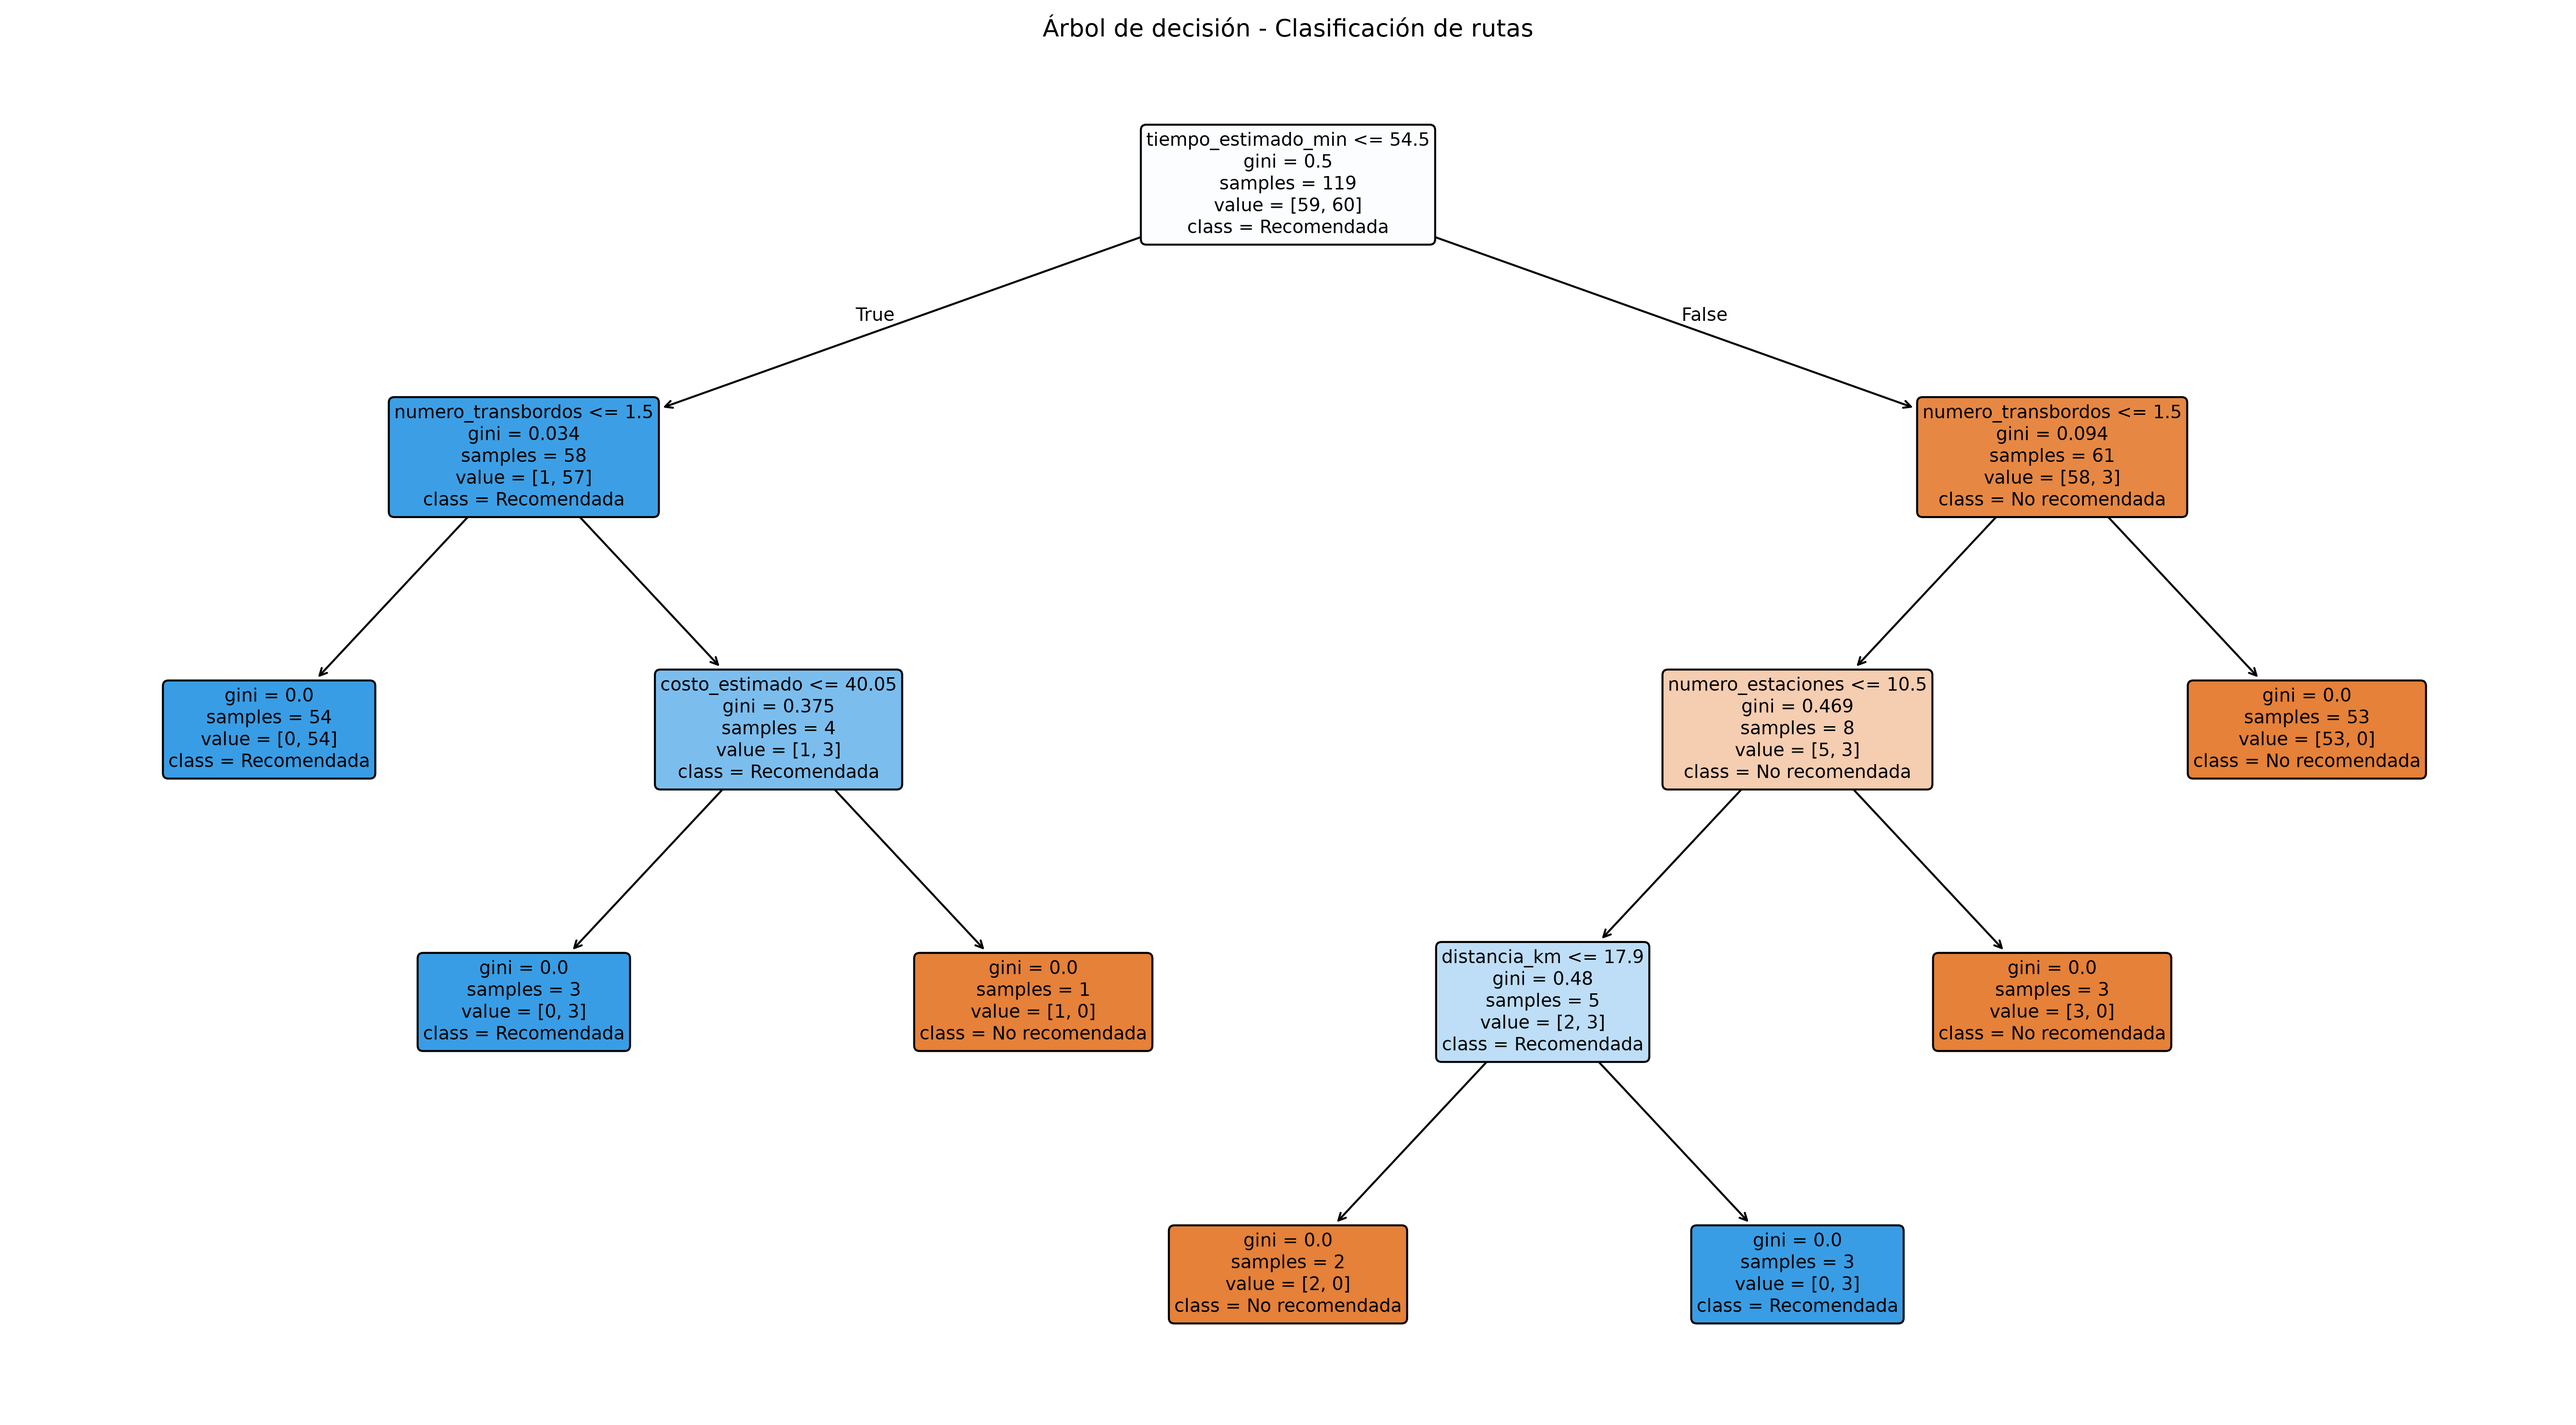
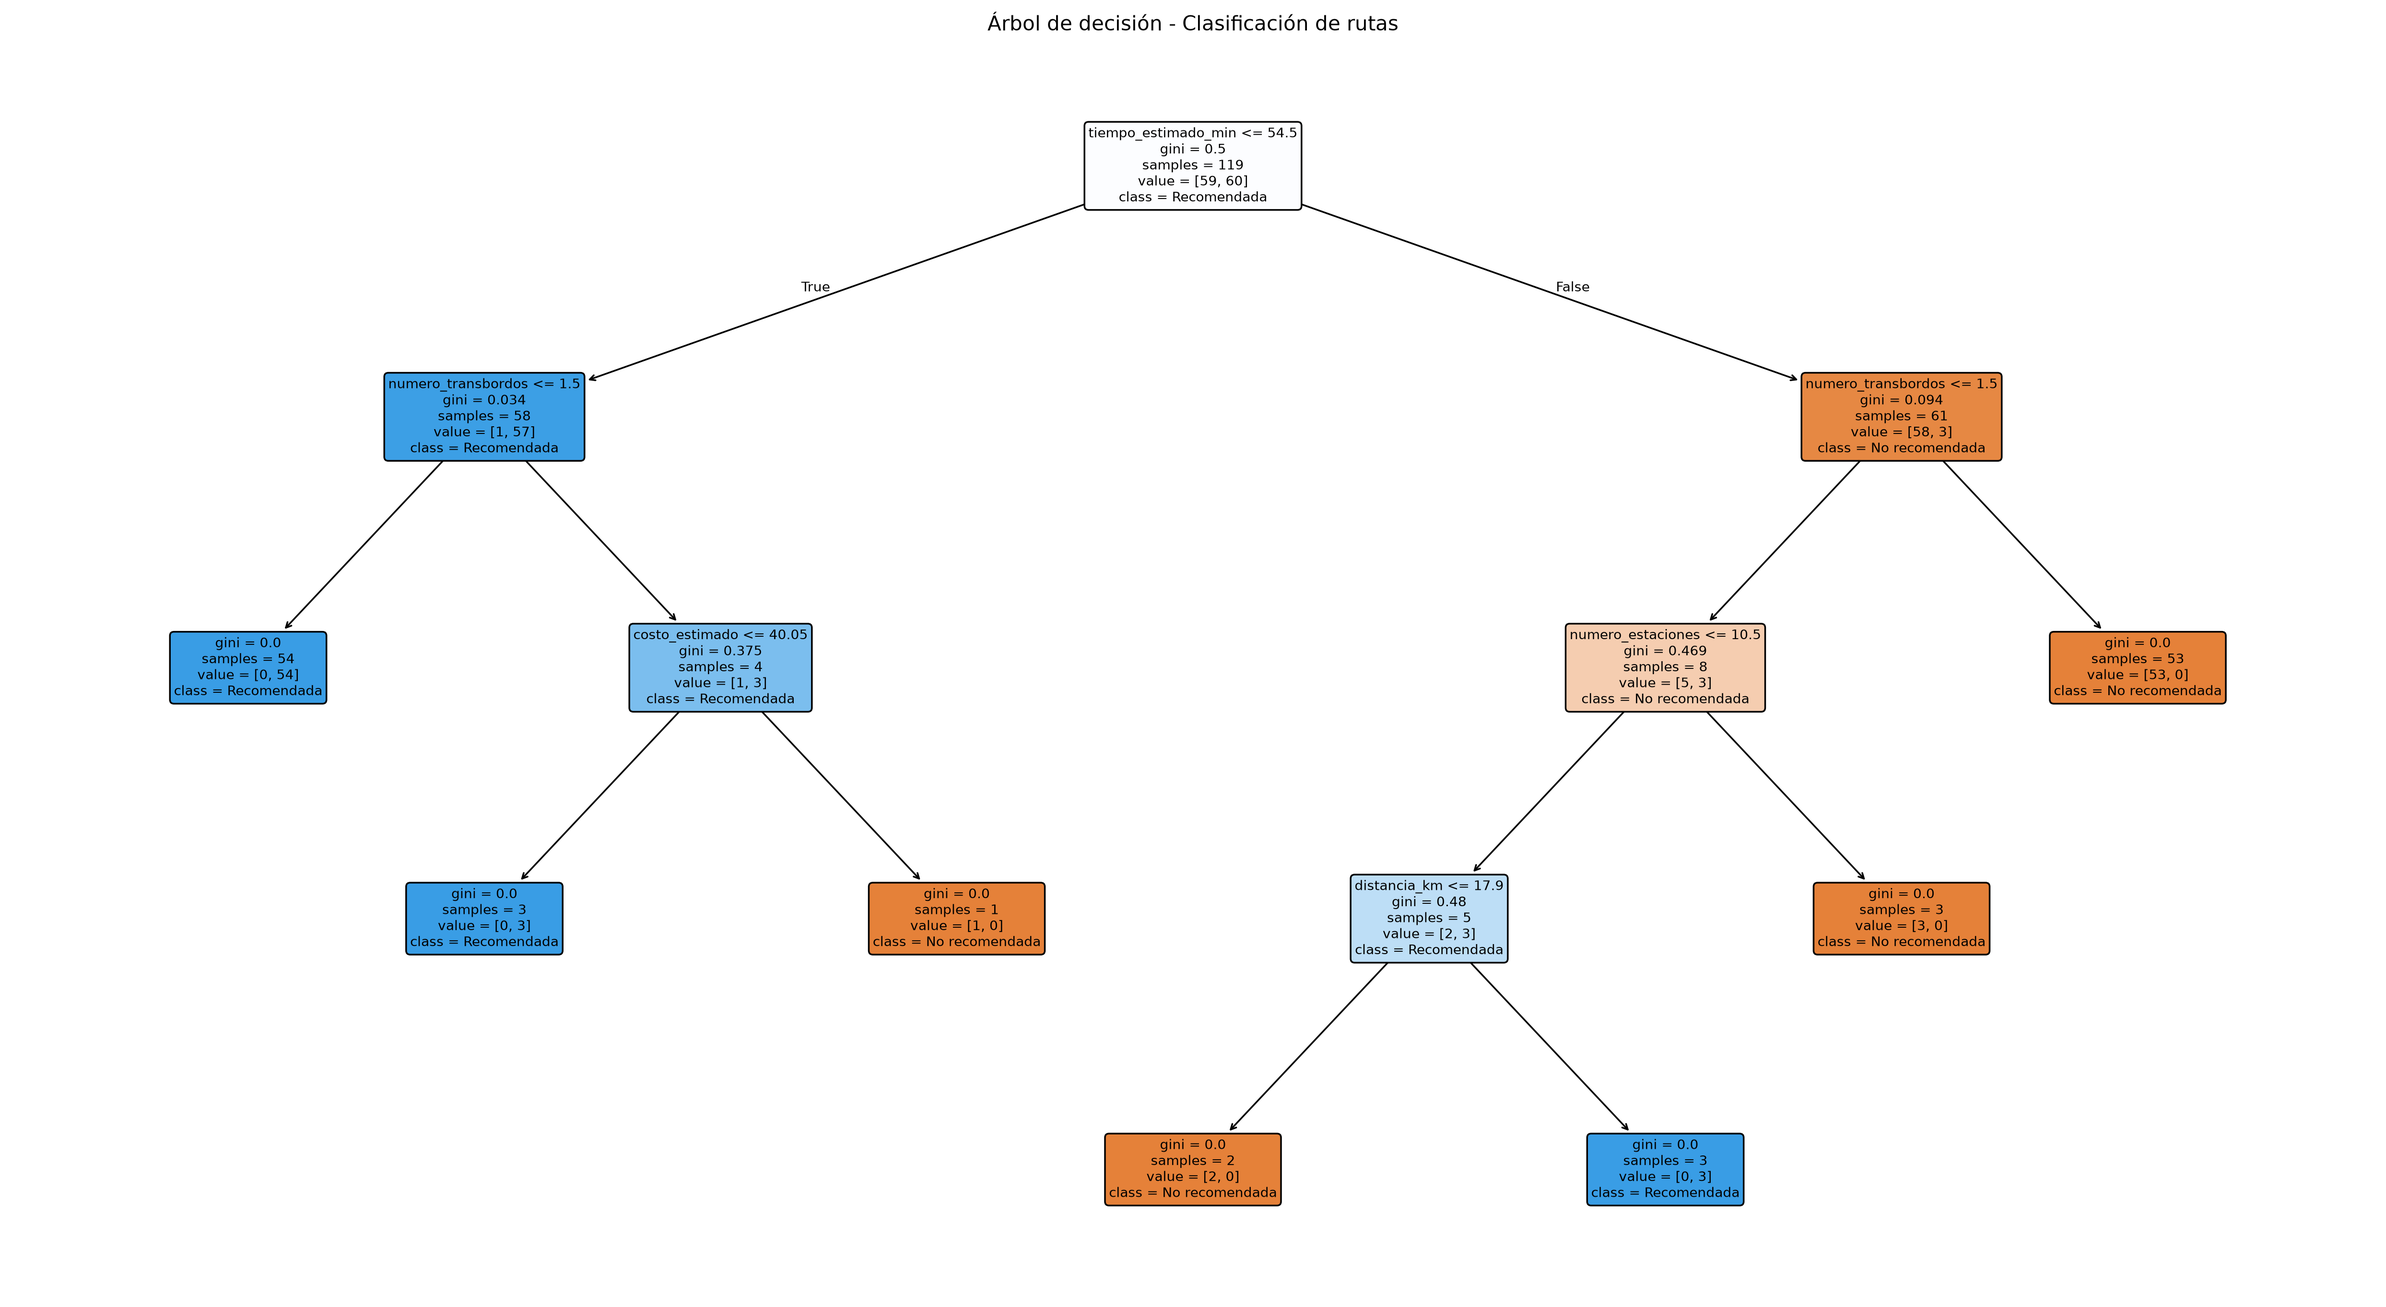
test: agregar pruebas del modelo y visualizaciones

diff --git a/tests/test_modelo.py b/tests/test_modelo.py
@@ -1,0 +1,87 @@
+import unittest
+
+import pandas as pd
+from sklearn.tree import DecisionTreeClassifier
+
+from ml.configuracion import (
+    RUTA_DATOS,
+    COLUMNAS_ENTRADA,
+    COLUMNA_OBJETIVO,
+)
+from ml.entrenar_modelo import cargar_datos
+
+class TestModeloSupervisado(unittest.TestCase):
+
+    @classmethod
+    def setUpClass(cls):
+        cls.datos = cargar_datos()
+
+    def test_dataset_existe(self):
+        self.assertTrue(RUTA_DATOS.is_file())
+
+    def test_cantidad_registros(self):
+        self.assertEqual(len(self.datos), 170)
+
+    def test_columnas_obligatorias(self):
+        columnas = (
+            COLUMNAS_ENTRADA + [COLUMNA_OBJETIVO]
+        )
+        for columna in columnas:
+            self.assertIn(columna, self.datos.columns)
+
+    def test_sin_valores_nulos(self):
+        columnas = (
+            COLUMNAS_ENTRADA + [COLUMNA_OBJETIVO]
+        )
+        self.assertFalse(
+            self.datos[columnas].isnull().any().any()
+        )
+
+    def test_etiquetas_validas(self):
+        etiquetas = set(
+            self.datos[COLUMNA_OBJETIVO].unique()
+        )
+        self.assertEqual(etiquetas, {0, 1})
+
+    def test_hora_pico_valida(self):
+        valores = set(
+            self.datos["hora_pico"].unique()
+        )
+        self.assertTrue(valores.issubset({0, 1}))
+
+    def test_entrenamiento(self):
+        X = self.datos[COLUMNAS_ENTRADA]
+        y = self.datos[COLUMNA_OBJETIVO]
+
+        modelo = DecisionTreeClassifier(max_depth=4, random_state=42)
+
+        modelo.fit(X, y)
+
+        self.assertEqual(modelo.n_features_in_, len(COLUMNAS_ENTRADA))
+
+    def test_prediccion_valida(self):
+        X = self.datos[COLUMNAS_ENTRADA]
+        y = self.datos[COLUMNA_OBJETIVO]
+
+        modelo = DecisionTreeClassifier(max_depth=4, random_state=42)
+
+        modelo.fit(X, y)
+
+        nueva_ruta = pd.DataFrame(
+            [{
+                "distancia_km": 13,
+                "numero_estaciones": 8,
+                "numero_transbordos": 1,
+                "nivel_congestion": 2,
+                "tiempo_estimado_min": 33,
+                "costo_estimado": 24,
+                "hora_pico": 1,
+            }]
+        )[COLUMNAS_ENTRADA]
+
+        resultado = int(modelo.predict(nueva_ruta)[0])
+
+        self.assertIn(resultado, [0, 1])
+
+if __name__ == "__main__":
+    unittest.main()
